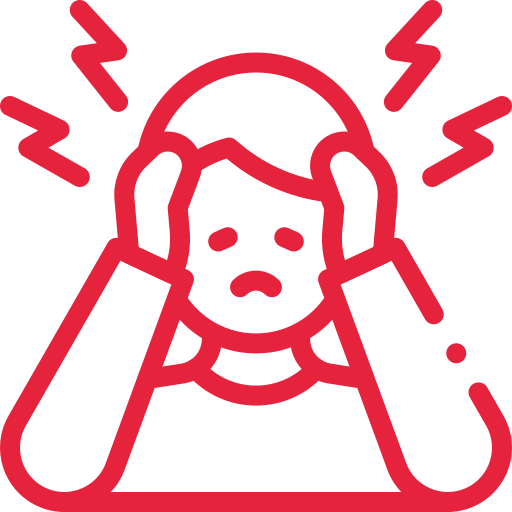
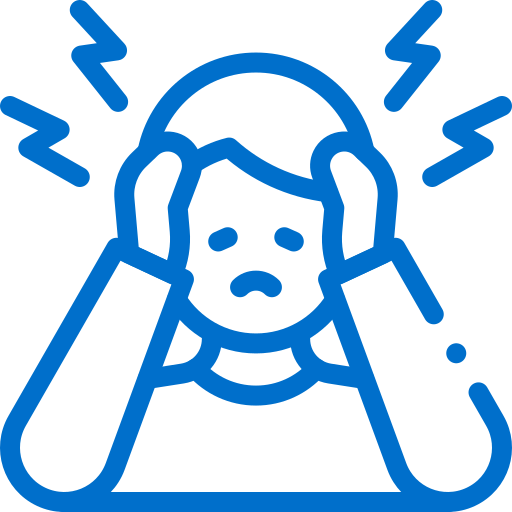
make website responsive

diff --git a/Frontend/src/RactRouter.js/Work.js b/Frontend/src/RactRouter.js/Work.js
@@ -44,7 +44,7 @@ function Work() {
   ];
 
   return (
-    <section className="relative h-full w-full text-black">
+    <section className="relative w-full h-full text-black">
       {openCreateWork && (
         <div
           onClick={(e) => {
@@ -55,7 +55,7 @@ function Work() {
         >
           <div
             onClick={(e) => e.stopPropagation()}
-            className=" flex gap-[1.2rem] p-[2rem] pt-5  w-[35%] flex-col rounded-xl shadow-[0_0_10px_rgba(0,0,0,0.4)] bg-gray-100 text-gray-500"
+            className=" flex gap-[1.2rem] p-[2rem] pt-5  w-[35%] max-sm:w-[90%] flex-col rounded-xl shadow-[0_0_10px_rgba(0,0,0,0.4)] bg-gray-100 text-gray-500"
           >
             <h1 className="font-bold text-[2vw] text-black  text-center w-full ">
               Add Work
@@ -65,7 +65,7 @@ function Work() {
                 <h1 className="font-semibold">Name</h1>
                 <input
                   type="text"
-                  className="w-full pl-3  border-2 border-gray-200  focus:border-ButtonColor outline-none p-2 rounded-md"
+                  className="w-full p-2 pl-3 border-2 border-gray-200 rounded-md outline-none focus:border-ButtonColor"
                 />
               </div>
               <div className="w-1/2">
@@ -84,36 +84,36 @@ function Work() {
             </div>
             {/* <div className="flex flex-col gap-2 text-primaryColor">
                         <h1 className='font-semibold capitalize'>work title</h1>
-                        <input type="text" className='pl-3  border-2 border-primaryColor/40 focus:border-primaryColor outline-none p-2 rounded-md' />
+                        <input type="text" className='p-2 pl-3 border-2 rounded-md outline-none border-primaryColor/40 focus:border-primaryColor' />
                     </div> */}
             <div className="flex flex-col gap-2 ">
               <h1 className="font-semibold capitalize">Work descripton</h1>
               <textarea
                 type="text"
-                className="pl-3  border-2 border-gray-200  focus:border-ButtonColor outline-none p-2 rounded-md"
+                className="p-2 pl-3 border-2 border-gray-200 rounded-md outline-none focus:border-ButtonColor"
               />
             </div>
             {/* <div className="flex flex-col gap-2 text-primaryColor">
                         <h1 className='font-semibold capitalize'>expected budget</h1>
-                        <input type="text" className='pl-3  border-2 border-primaryColor/40 focus:border-primaryColor outline-none p-2 rounded-md' />
+                        <input type="text" className='p-2 pl-3 border-2 rounded-md outline-none border-primaryColor/40 focus:border-primaryColor' />
                     </div> */}
             {/* <div className="flex flex-col gap-2 text-primaryColor">
                         <h1 className='font-semibold capitalize'>address</h1>
-                        <textarea type="text" className='pl-3  border-2 border-primaryColor/40 focus:border-primaryColor outline-none p-2 rounded-md' />
+                        <textarea type="text" className='p-2 pl-3 border-2 rounded-md outline-none border-primaryColor/40 focus:border-primaryColor' />
                     </div> */}
             <div className=" flex gap-[2rem] justify-between items-end">
               <div className="w-1/2">
                 <h1 className="font-semibold capitalize">start date</h1>
                 <input
                   type="text"
-                  className="w-full pl-3  border-2 border-gray-200  focus:border-ButtonColor outline-none p-2 rounded-md"
+                  className="w-full p-2 pl-3 border-2 border-gray-200 rounded-md outline-none focus:border-ButtonColor"
                 />
               </div>
               <div className="w-1/2">
                 <h1 className="font-semibold capitalize">end date</h1>
                 <input
                   type="text"
-                  className="w-full pl-3  border-2 border-gray-200  focus:border-ButtonColor outline-none p-2 rounded-md"
+                  className="w-full p-2 pl-3 border-2 border-gray-200 rounded-md outline-none focus:border-ButtonColor"
                 />
               </div>
             </div>
@@ -132,9 +132,9 @@ function Work() {
         >
           <div
             onClick={(e) => e.stopPropagation()}
-            className="relative overflow-hidden flex  gap-[1.4rem] rounded-[.8rem] h-[24rem] w-fit bg-white border-[1px] border-slate-300 shadow-[0_0_10px_rgba(0,0,0,0.4)]"
+            className="relative overflow-hidden flex max-sm:flex-col max-sm:gap-0 gap-[1.4rem] rounded-[.8rem] h-[24rem] max-sm:h-[40rem] w-fit max-sm:w-[75%]  bg-white border-[1px] border-slate-300 shadow-[0_0_10px_rgba(0,0,0,0.4)]"
           >
-            <div className="h-full w-[24rem] p-[1rem] ">
+            <div className="h-full w-[24rem] max-sm:w-full max-sm:h-[20rem] p-[1rem] max-sm:pb-0 ">
               <img
                 src="./image2.jpg"
                 alt=""
@@ -142,14 +142,13 @@ function Work() {
                 className="border-[1px] border-slate-400 h-full w-full rounded-[1rem] "
               />
             </div>
-            <div className="flex flex-col gap-[1rem] w-[20rem] py-[1.4rem] pr-[.8rem]">
+            <div className="flex flex-col gap-[.4rem] w-[20rem] max-sm:w-full py-[1.4rem] max-sm:px-[1rem] pr-[.8rem]">
               <h2 className="mx-auto text-[1.6rem] font-bold text-primaryColor">
                 Wooden Bed Making
               </h2>
+              <h2 className="mt-[.4rem]">Location</h2>
+              <h2 className="">Number of workers : </h2>
               <div className="mt-[rem]">
-                <h2 className="text-[1.1rem] font-semibold capitalize">
-                  date :
-                </h2>
                 <div className="w-full flex gap-[1.2rem] ">
                   <h2>
                     <span className="font-semibold">start :</span> 10/10/2023
@@ -195,22 +194,21 @@ function Work() {
         <div className="flex flex-wrap gap-[1rem] max-sm:gap-[1.4rem]">
           {data.map((e) => {
             return (
-              <div className="overflow-hidden p-[.8rem] flex rounded-[.8rem] gap-[1rem] h-full w-fit border-[1px] border-slate-300 max-sm:w-full bg-white">
-                <div className="h-full w-[5.8rem] ">
-                  <img
-                    src="./image2.jpg"
-                    alt=""
-                    srcset=""
-                    className="h-full w-full border-[1px] border-slate-400  rounded-[.4rem] "
-                  />
-                </div>
-                <div className="flex flex-col justify-between items-start w-[14rem] pr-[.8rem]">
+              <div className="overflow-hidden p-[.8rem] flex rounded-[.8rem] rounded-t-none border-t-[3px] border-primaryColor gap-[1rem] h-full w-fit max-sm:w-full bg-primaryColor/10">
+                <div className="flex flex-col gap-[.8rem] justify-between items-start w-[21rem] px-[1rem] pb-[.5rem]">
                   <div className="flex flex-col">
-                    <h2 className="text-[1.3rem]  font-bold text-primaryColor">
+                    <h2 className="text-[1.3rem] mt-[.6rem] font-bold text-primaryColor">
                       Wooden Bad Making
                     </h2>
-                    <h2 className="text-[1.1rem] capitalize font-semibold text-TextColor2">
-                      date : {e.date}
+                    <h2 className="mt-[.6rem] text-[.9rem]">location : 32</h2>
+                    <h2>number of worker :</h2>
+                    <h2 className="mt-[.2rem] font-medium">
+                      Lorem ipsum dolor sit amet consectetur adipisicing elit.
+                      Excepturi voluptatum si est sed eligendi alias autem non
+                      nemo minima exercitationem.
+                    </h2>
+                    <h2 className="text-[.9rem] mt-[.1rem] capitalize ">
+                      posted 1h ago
                     </h2>
                   </div>
                   <button
@@ -218,9 +216,9 @@ function Work() {
                       setOpenWork(!openWork);
                       setOpenWorkData(e);
                     }}
-                    className="py-[.1rem] px-[1rem] border-[1px] border-slate-300 hover:bg-primaryColor hover:text-white transition-colors duration-200 bg-slate-200 rounded-[.4rem] font-medium mb-[.2rem] text-[.8rem]"
+                    className="py-[.4rem] px-[1rem] mt-[.4rem] border-[1px] w-full border-slate-300 text-white  transition-colors duration-200 bg-primaryColor rounded-[.4rem] font-medium mb-[.2rem] text-[1.1rem]"
                   >
-                    View
+                    View details
                   </button>
                 </div>
               </div>

diff --git a/Frontend/src/RactRouter.js/About.js b/Frontend/src/RactRouter.js/About.js
@@ -37,7 +37,7 @@ function About() {
             </div>
           </a>
         </div>
-        <div className=" mr-[6rem] mt-[9rem] relative h-[28rem] w-[24rem]  max-sm:mr-0 max-sm:mt-0">
+        <div className=" mr-[6rem] max-sm:left-[4rem] max-sm:mr-0 mt-[9rem] relative h-[28rem] w-[24rem]   max-sm:mt-0">
           <div className="absolute -bottom-[3rem] -left-[3rem] z-[3] h-[10rem] w-[18rem] rounded-tl-[3rem] rounded-br-[3rem] bg-primaryColor"></div>
           <div className="overflow-hidden absolute z-[4]  h-[28rem] w-[24rem] rounded-tl-[4rem] rounded-br-[4rem] shadow-[0px_10px_30px] shadow-primaryColor/60">
             <img
@@ -50,23 +50,23 @@ function About() {
       </div>
 
       {/* ------------ */}
-      <div id="readmore" className="m-[3rem] mt-[12rem] mb-[6rem]">
-        <p className="mx-[20rem] my-[4rem] max-sm:mx-[2rem] max-sm:mt-[28rem] text-center">
+      <div id="readmore" className="m-[3rem] mt-[12rem] max-sm:mt-0 mb-[6rem]">
+        <p className="mx-[20rem] my-[4rem] max-sm:mx-[2rem] max-sm:mt-[8rem] text-center">
           Lorem ipsum, dolor sit amet consectetur adipisicing elit. Facilis
           molestiae incidunt earum delectus, minus debitis atque? Quibusdam
           rerum eligendi ducimus.
         </p>
-        <div className="px-[6rem] w-full flex flex-col items-center gap-[4rem]">
+        <div className="px-[6rem] max-sm:px-[1rem] w-full flex flex-col items-center gap-[4rem]">
           <div className="w-full flex max-sm:flex-col justify-between items-center gap-[4rem]">
             <div className="relative flex justify-center items-center h-[30rem] w-[29rem] max-sm:w-full">
-              <div className="overflow-hidden absolute top-0 right-0 h-[14rem] w-[16rem] rounded-tl-[4rem] rounded-br-[4rem] shadow-[0px_10px_30px] shadow-primaryColor/60">
+              <div className="overflow-hidden absolute top-0 right-0 h-[14rem] w-[16rem] max-sm:h-[12rem] max-sm:w-[14rem] rounded-tl-[4rem] rounded-br-[4rem] shadow-[0px_10px_30px] shadow-primaryColor/60">
                 <img
                   src="/Indian Construction Workers.jpeg"
                   alt=""
                   className="h-full w-full hover:scale-[1.1] transition-all duration-300"
                 />
               </div>
-              <div className="overflow-hidden absolute bottom-0 left-0 h-[14rem] w-[16rem] rounded-br-[4rem] rounded-tl-[4rem] shadow-[0px_10px_30px] shadow-primaryColor/60">
+              <div className="overflow-hidden absolute bottom-0 left-0 h-[14rem] w-[16rem] max-sm:h-[12rem] max-sm:w-[14rem]  rounded-br-[4rem] rounded-tl-[4rem] shadow-[0px_10px_30px] shadow-primaryColor/60">
                 <img
                   src="./img3.jpg"
                   alt=""
@@ -112,14 +112,14 @@ function About() {
             </div> */}
 
             <div className="relative flex justify-center items-center h-[30rem] w-[29rem] max-sm:w-full">
-              <div className="overflow-hidden absolute top-0 right-0 h-[14rem] w-[16rem] rounded-tl-[4rem] rounded-br-[4rem] shadow-[0px_10px_30px] shadow-primaryColor/60">
+              <div className="overflow-hidden absolute top-0 right-0 h-[14rem] w-[16rem] max-sm:h-[12rem] max-sm:w-[14rem]  rounded-tl-[4rem] rounded-br-[4rem] shadow-[0px_10px_30px] shadow-primaryColor/60">
                 <img
                   src="./img2.jpg"
                   alt=""
                   className="h-full w-full hover:scale-[1.1] transition-all duration-300"
                 />
               </div>
-              <div className="overflow-hidden absolute bottom-0 left-0 h-[14rem] w-[16rem] rounded-br-[4rem] rounded-tl-[4rem] shadow-[0px_10px_30px] shadow-primaryColor/60">
+              <div className="overflow-hidden absolute bottom-0 left-0 h-[14rem] w-[16rem] max-sm:h-[12rem] max-sm:w-[14rem]  rounded-br-[4rem] rounded-tl-[4rem] shadow-[0px_10px_30px] shadow-primaryColor/60">
                 <img
                   src="./woodwork.jpeg"
                   alt=""

diff --git a/Frontend/src/RactRouter.js/Home.js b/Frontend/src/RactRouter.js/Home.js
@@ -5,7 +5,6 @@ import { FaBriefcase } from "react-icons/fa";
 import { VscWorkspaceTrusted } from "react-icons/vsc";
 import Footer from "./Footer";
 
-
 function Home() {
   const [firstData, setFirstData] = useState(null);
 
@@ -17,7 +16,7 @@ function Home() {
             "relative overflow-hidden bg-slate-100 h-screen max-sm:h-fit max-sm:p-[2rem] max-sm:pt-[8rem] max-sm:gap-[6rem] w-full pt-[4rem] px-[4rem] flex max-sm:flex-col items-center justify-between text-white"
           }
         >
-          <div className="absolute z-[2] -left-[10rem] -top-[4rem] -rotate-[25deg] h-screen w-[60rem] bg-ButtonColor"></div>
+          <div className="absolute z-[2] -left-[10rem] -top-[4rem] max-sm:-top-[30rem] -rotate-[25deg] h-screen w-[60rem] bg-ButtonColor"></div>
           {/* <div className="absolute z-[1] top-[2rem] left-0 w-full ">
             <img src={"/home_img.png"} className="w-full h-full" />
           </div> */}
@@ -45,7 +44,11 @@ function Home() {
         {/* ------------------ */}
         <div className=" mt-[6rem] relative z-20 max-sm:py-[2rem] max-sm:mt-[5rem] flex max-sm:flex-col mx-[6rem] max-sm:mx-[3rem] max-sm:gap-[2rem] gap-[1rem] rounded-[1.6rem]  ">
           <div className="w-full flex max-sm:rounded-[1.6rem] rounded-tl-[1.6rem] rounded-bl-[1.6rem] flex-col justify-center items-center py-[2rem] px-[3rem] max-sm:px-[2.5rem] max-sm:py-[2rem] text-primaryColor bg-white shadow-[0_4px_7px_rgba(0,0,0,0.4)] hover:shadow-[0_4px_7px] hover:shadow-primaryColor/60 transition-all duration-300">
-            <img src="/unemployment.png" className="h-[5rem]" alt="" />
+            <img
+              src="/unemployment.png"
+              className="h-[5rem] -hue-rotate-20"
+              alt=""
+            />
             <h1 className="mt-[.4rem] text-[2rem] font-bold capitalize">
               23.22%
             </h1>

diff --git a/Frontend/src/index.css b/Frontend/src/index.css
@@ -1,43 +1,39 @@
 @tailwind base;
 @tailwind components;
 @tailwind utilities;
-@import "slick-carousel/slick/slick.css"; 
+@import "slick-carousel/slick/slick.css";
 @import "slick-carousel/slick/slick-theme.css";
 
-*{
+* {
   margin: 0;
   padding: 0;
   box-sizing: border-box;
 }
 
-
-
-html{
+html {
   font-size: 1vw;
 }
 body {
   margin: 0;
-  font-family: -apple-system, BlinkMacSystemFont, 'Segoe UI', 'Roboto', 'Oxygen',
-    'Ubuntu', 'Cantarell', 'Fira Sans', 'Droid Sans', 'Helvetica Neue',
+  font-family: -apple-system, BlinkMacSystemFont, "Segoe UI", "Roboto", "Oxygen",
+    "Ubuntu", "Cantarell", "Fira Sans", "Droid Sans", "Helvetica Neue",
     sans-serif;
   -webkit-font-smoothing: antialiased;
   -moz-osx-font-smoothing: grayscale;
 }
 
 code {
-  font-family: source-code-pro, Menlo, Monaco, Consolas, 'Courier New',
+  font-family: source-code-pro, Menlo, Monaco, Consolas, "Courier New",
     monospace;
 }
 
-.active{
-  color: #E5233D;
-  font-size: 1.2rem;
+.active {
+  color: #006fcb;
+  font-size: 1.3rem;
 }
-.active:hover{
-  color: #E5233D;
+.active:hover {
+  color: #e5233d;
 }
-
-
 
 .rating:not(:checked) > input {
   appearance: none;
@@ -51,7 +47,7 @@ code {
 }
 
 .rating:not(:checked) > label:before {
-  content: '★';
+  content: "★";
 }
 
 .rating > input:checked + label:hover,
@@ -71,7 +67,8 @@ code {
   color: #ffa723;
 }
 
-@media  screen and (max-width:768px) {
-  html{
+@media screen and (max-width: 768px) {
+  html {
     font-size: 3vw;
-  }}
+  }
+}

diff --git a/Frontend/src/RactRouter.js/Navebar.js b/Frontend/src/RactRouter.js/Navebar.js
@@ -36,15 +36,16 @@ function Navebar() {
             RM
           </h2>
         </NavLink>
+
         <ul
           className={` max-sm:absolute max-sm:justify-center max-sm:items-center  max-sm:top-0  ${
             menuopen ? "max-sm:left-0" : "max-sm:left-full"
-          } max-sm:duration-200 max-sm:bg-primaryColor max-sm:h-[50rem] max-sm:w-full flex justify-between text-lg  text-black font-semibold capitalize`}
+          } max-sm:duration-200 max-sm:bg-primaryColor max-sm:h-screen max-sm:w-full flex justify-between text-lg  text-black font-semibold capitalize`}
         >
-          {/* <FaTimes
+          <FaTimes
             onClick={() => setMenuopen(!menuopen)}
-            className="text-[2rem] text-white"
-          /> */}
+            className="absolute top-4 hidden max-sm:block right-4 text-[2rem] text-white"
+          />
           <div className="flex max-sm:flex-col max-sm:gap-[1rem] max-sm:text-center text-black font-bold ">
             <li className="px-3">
               <NavLink
@@ -117,6 +118,11 @@ function Navebar() {
               />
             </div>
           </NavLink>
+
+          <FaBars
+            onClick={() => setMenuopen(!menuopen)}
+            className=" hidden max-sm:block text-[2rem] text-primaryColor"
+          />
         </div>
       </div>
     </>

diff --git a/Frontend/src/RactRouter.js/Contect.js b/Frontend/src/RactRouter.js/Contect.js
@@ -5,11 +5,11 @@ import Footer from "./Footer";
 function Contect() {
   return (
     <>
-      <section className="relative flex text-gray-600 ">
-        <div className="h-screen w-1/2 flex justify-center items-center bg-[#a46570]">
+      <section className="relative flex text-gray-600 max-sm:flex-col ">
+        <div className="h-screen w-1/2 max-sm:w-full flex justify-center items-center bg-[#006fcb]">
           <img src="./contact.png" className="h-[30rem]" alt="" />
         </div>
-        <div className="container w-1/2 py-24">
+        <div className="container w-1/2 py-24 max-sm:w-full">
           <div className="flex flex-col w-full mb-12 text-center">
             <h1 className="mb-1 text-2xl font-medium text-gray-900 underline sm:text-3xl title-font">
               Contact Us

diff --git a/Frontend/src/RactRouter.js/ProfilePage.js b/Frontend/src/RactRouter.js/ProfilePage.js
@@ -28,8 +28,8 @@ function ProfilePage() {
             <div className="">
               <div className="relative z-20 mx-auto h-[17rem]  w-full flex justify-center items-center">
                 <img
-                  src="https://encrypted-tbn0.gstatic.com/images?q=tbn:ANd9GcRudDbHeW2OobhX8E9fAY-ctpUAHeTNWfaqJA&usqp=CAU"
-                  className=" z-10 absolute h-[14rem] w-[14rem] border-[4px] overflow-hidden border-ButtonColor  rounded-[8px] "
+                  src="./persone.png"
+                  className=" z-10 absolute h-[14rem] w-[14rem] border-[4px] overflow-hidden border-ButtonColor  rounded-full "
                   alt=""
                   srcset=""
                 />

diff --git a/Frontend/tailwind.config.js b/Frontend/tailwind.config.js
@@ -4,15 +4,12 @@ module.exports = {
   theme: {
     extend: {
       colors: {
-        "primaryColor": "#E5233D",
-        "Cardcolor": "#F1DEE0",
-        "ButtonColor": "#A46570",
-        "TextColor1": " #000000 ",
-        "TextColor2": "#6C6C6C",
-
-       
+        primaryColor: "#006fcb",
+        Cardcolor: "#F1DEE0",
+        ButtonColor: "#006fcb",
+        TextColor1: " #000000 ",
+        TextColor2: "#6C6C6C",
       },
-
     },
   },
   plugins: [],
